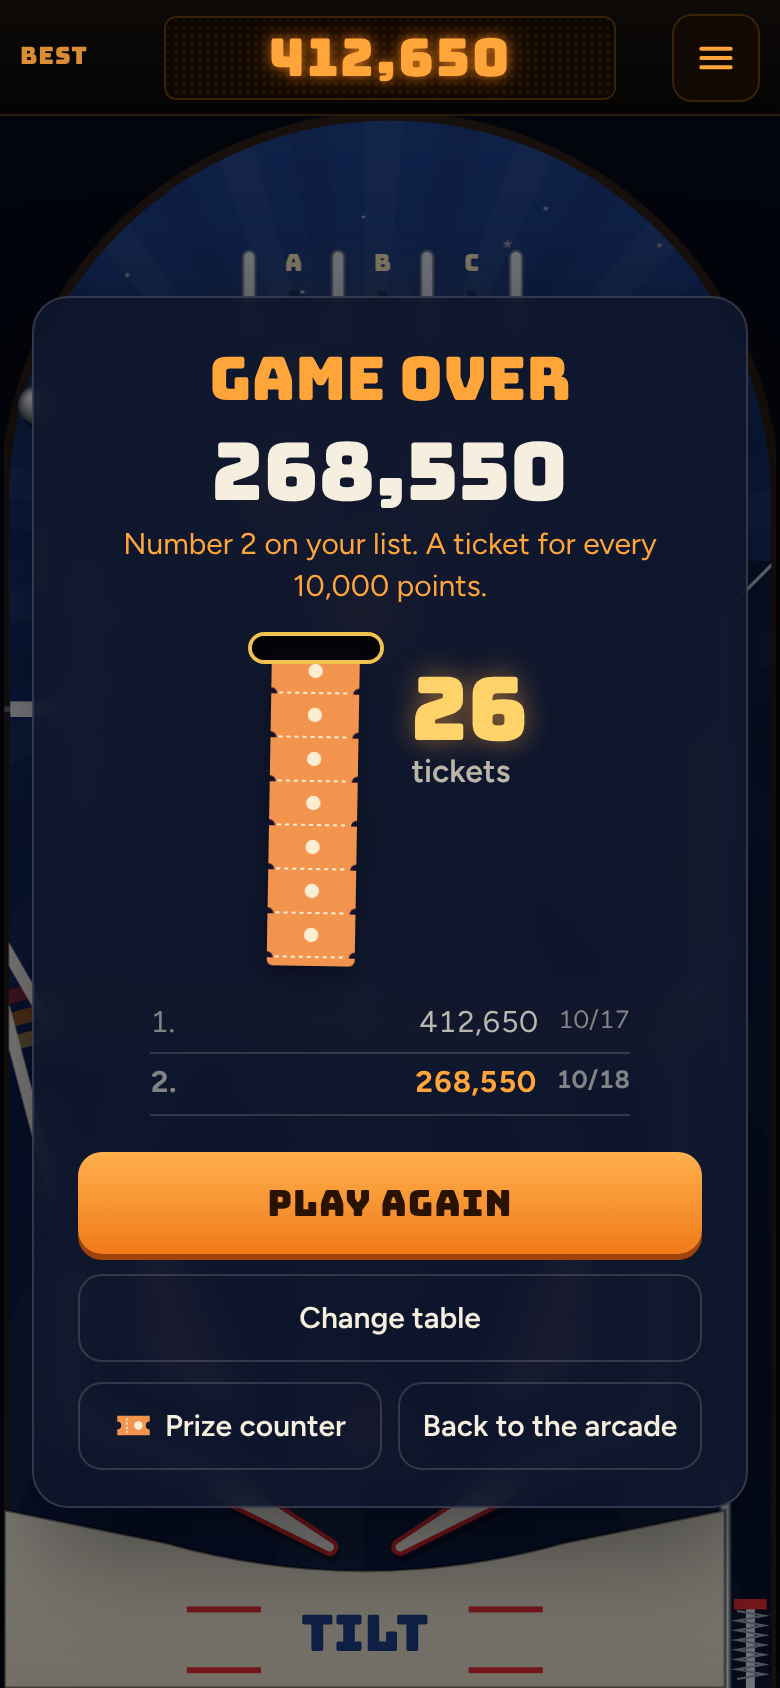
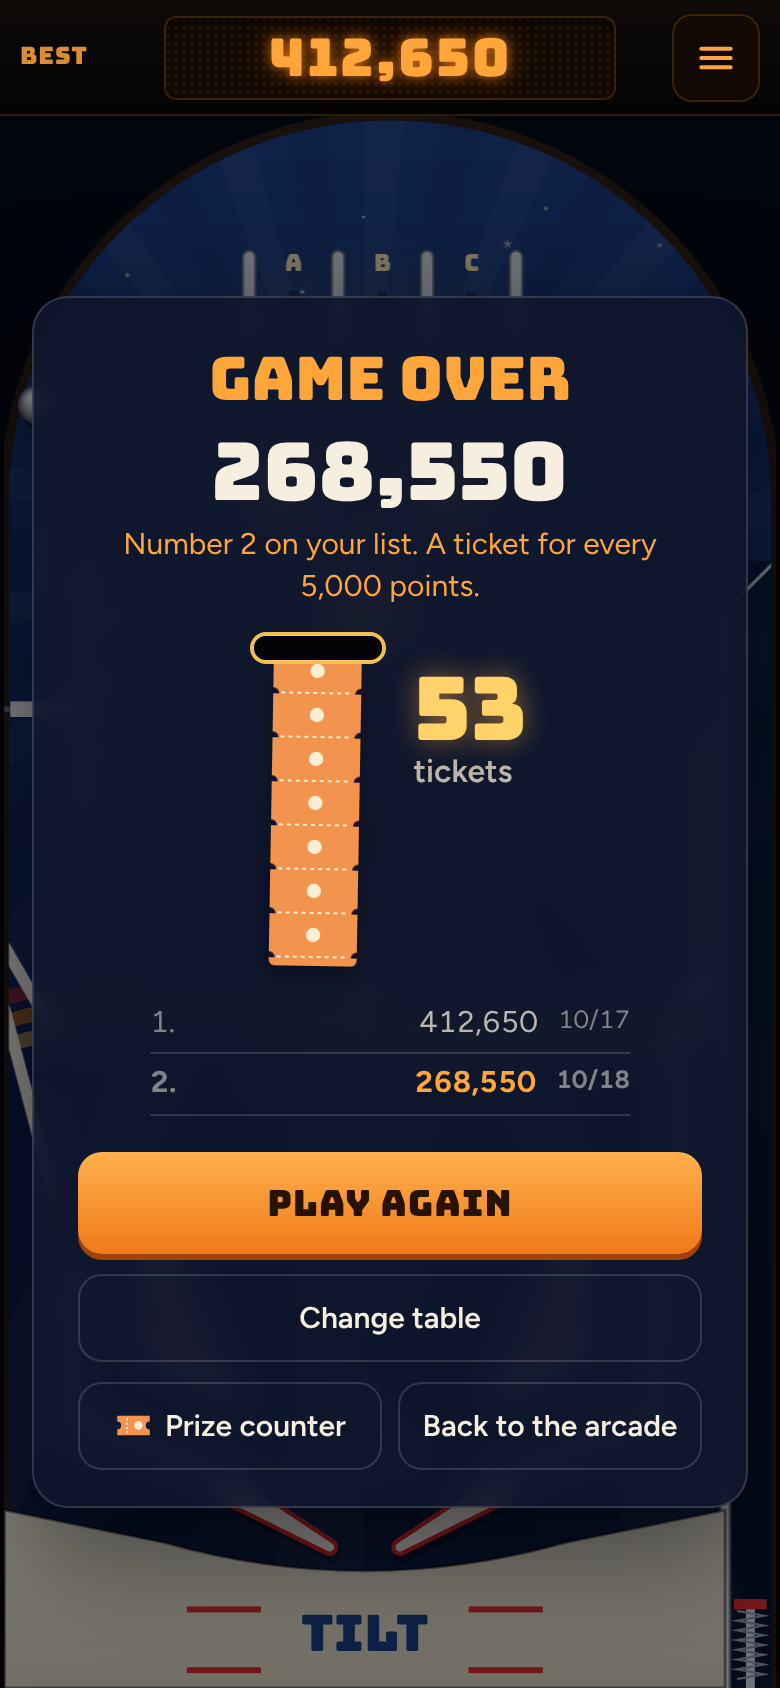
Tilt pays twice as much: a ticket for every 5,000 points
Mark said yes to Tilt paying double (the question 'Tilt, the deepest
machine, pays the least'). Classic and Space now pay a ticket for every
5,000 points and Haunted House for every 2,500, so the autopilot earns
about 14, 23 and 22 tickets a minute instead of 7, 12 and 11. The title
and end cards read the rate from the table, and the README says a fair
game earns about 50 to 70. The end card's line no longer leaves
'points.' on a line of its own, and the README's picture of it is drawn
again with its 53 tickets. A test pins each table's rate; sw.js's FILES
follows the change.

Claude-Session: https://claude.ai/code/session_01RkvUFhzoaPZyofz3pSrJ5i

diff --git a/tilt/js/tables/haunted/index.js b/tilt/js/tables/haunted/index.js
@@ -17,7 +17,7 @@ export default {
   draw,
   floors: [0, BASEMENT], // the house, then the basement under it: the screen shows the one the ball is on
   scoresKey: 'hauntedScores',
-  perTicket: 5000,    // Free Play pays a ticket for every this many points: the hard one pays double, so a fair game earns about the same
+  perTicket: 2500,    // Free Play pays a ticket for every this many points: the hard one pays double, so a fair game earns about the same
   howTo: [
     '<b>Ghosts</b> glow now and then, in the windows and on the walls. Hit one while it glows to catch it. Each one lights a candle under the house, and once they\'re all lit the <b>front door</b> opens. While it\'s shut, a hard shot knocks on it and wakes a ghost.',
     '<b>Trapdoor:</b> shoot through the open door and the ball drops into the <b>basement</b>, a little table of its own. Knock the lid off the coffin to light an <b>extra ball</b>, then take the stairs back up.',

diff --git a/tilt/js/tables/classic/index.js b/tilt/js/tables/classic/index.js
@@ -18,7 +18,7 @@ export default {
   paint,                // paint(c, layout, skin): what never changes, into the static layer
   draw,                 // draw(c, game, skin, now): lamps, toys, balls, flippers, plunger and apron, each frame
   scoresKey: 'scores',  // where its top five are saved; Classic keeps the one from before there were tables
-  perTicket: 10000,    // Free Play pays a ticket for every this many points: about 30 for a fair game
+  perTicket: 5000,     // Free Play pays a ticket for every this many points: about 60 for a fair game
   howTo: [              // its rules, under the controls in How to play on the title card
     '<b>Skill shot:</b> launch into the flashing top lane for 25,000. The flippers move it.',
     '<b>Top lanes</b> raise the bonus multiplier and light the bumpers. <b>Standups</b> light the spinner. <b>Drop targets</b> light an extra ball at the kickout in the middle.',

diff --git a/tilt/js/tables/space/index.js b/tilt/js/tables/space/index.js
@@ -15,7 +15,7 @@ export default {
   paint,
   draw,
   scoresKey: 'spaceScores',
-  perTicket: 10000,    // Free Play pays a ticket for every this many points: about 30 for a fair game
+  perTicket: 5000,     // Free Play pays a ticket for every this many points: about 60 for a fair game
   howTo: [
     '<b>Ramp:</b> shoot it with the left flipper. It lights the lock and brings the ball back to the left flipper for another go.',
     '<b>Lock:</b> the right side works the upper flipper too. Shoot the orbit with the right flipper and keep holding: the ball comes round onto the upper flipper. From there, shoot the dock under the ramp to lock it, then light the lock again for two-ball <b>multiball</b>. The ramp scores the <b>jackpot</b>, and the dock lights it again.',

diff --git a/tilt/css/tilt.css b/tilt/css/tilt.css
@@ -151,7 +151,8 @@ a.ghost { display: flex; align-items: center; justify-content: center; text-deco
 .how li { margin: 6px 0; }
 .how b { color: var(--ink); }
 .final { margin: 10px 0 0; font: 40px/1 var(--disp); color: var(--ink); font-variant-numeric: tabular-nums; }
-.note { margin: 6px 0 0; color: var(--amber); min-height: 1.4em; }
+/* (pretty: the end card's line doesn't leave its last word on a line of its own) */
+.note { margin: 6px 0 0; color: var(--amber); min-height: 1.4em; text-wrap: pretty; }
 .scores { margin: 14px auto 18px; padding: 0; list-style: none; max-width: 240px; counter-reset: n; }
 .scores li {
   counter-increment: n; display: flex; justify-content: space-between; gap: 10px; padding: 4px 0;

diff --git a/sw.js b/sw.js
@@ -9,7 +9,7 @@
 // match (it says what to), which changes this file, so every copy is made whole again at once. Bump CACHE's number
 // as well when the list itself changes.
 const CACHE = 'free-play-v9';
-const FILES = 'f0c015c5'; // test/arcade.test.mjs checks this
+const FILES = 'c15bcb8f'; // test/arcade.test.mjs checks this
 const SHELL = [
   './', 'index.html', 'icon.svg', 'manifest.webmanifest', 'icon-180.png', 'icon-192.png',
   // the page for an address that is not there

diff --git a/README.md b/README.md
@@ -9,7 +9,7 @@
   &nbsp;
   <img src="docs/phone-roll-up.png" alt="Roll Up pushed in on the board as a ball drops into the 50 cup: chrome rings on a blue board with lit numbers 20, 30, 40 and 50, 100 cups in both top corners, and +50 rising over the cup" width="250">
   &nbsp;
-  <img src="docs/phone-tilt.png" alt="The end of a game of Tilt: 268,550 points, number 2 on the list at a ticket for every 10,000 points, and a strip of 26 orange tickets hanging out of a slot" width="250">
+  <img src="docs/phone-tilt.png" alt="The end of a game of Tilt: 268,550 points, number 2 on the list at a ticket for every 5,000 points, and a strip of 53 orange tickets hanging out of a slot" width="250">
 </p>
 <p align="center">
   <img src="docs/phone-clutch.png" alt="Clutch, a candy-pink claw machine: CLUTCH in neon on a bulb-lit sign, the claw coming up out of a heap of plush frogs, ghosts, aliens, penguins and a chick with a penguin in its grip, the prize chute behind a clear wall on the left, and a big pink HOLD button under the cabinet" width="250">
@@ -30,7 +30,7 @@
 ## How it plays
 
 - **The floor** has a cabinet for each machine, showing what you've done on it: your best, today's card and how many days in a row you've played it, a cup still on the go on Topple, the plush you've won. Tap one to play. Every machine has a way back to the floor.
-- **Tickets.** Roll Up pays one for every 10 points. Tilt pays one for every 10,000 on Classic and Space, and one for every 5,000 on Haunted House, the hard one. A fair game on either machine earns about 25 to 35, and they feed out of a slot at the end. Topple pays one for every coin pushed over its front edge, about 15 to 35 a cup, Highrise one for every floor built, Popgun one for every 20 points, Bonkers one for every 15, and Hoops one for every 4.
+- **Tickets.** Roll Up pays one for every 10 points, and a fair game earns about 25 to 35. Tilt pays one for every 5,000 on Classic and Space, and one for every 2,500 on Haunted House, the hard one, and a fair game earns about 50 to 70. They feed out of a slot at the end. Topple pays one for every coin pushed over its front edge, about 15 to 35 a cup, Highrise one for every floor built, Popgun one for every 20 points, Bonkers one for every 15, and Hoops one for every 4.
 - **Plush and prizes.** Clutch is the one machine that pays in prizes instead of tickets: whatever its claw drops down the chute goes straight on your shelf. So does a prize pushed off Topple's deck.
 - **The prize counter** is on the floor and in every machine's menus. Trade tickets for anything from a 5-ticket lollipop to a 2,500-ticket enormous unicorn, and it sits on your shelf next to your plush. Tapped the wrong one? For a few seconds after a trade, Undo gives the tickets back.
 - No account and no server. Your tickets, prizes and scores stay in your browser. It works offline (on a connection that isn't answering, a page opens from the offline copy after four seconds), and installs to a phone's home screen as one app.
